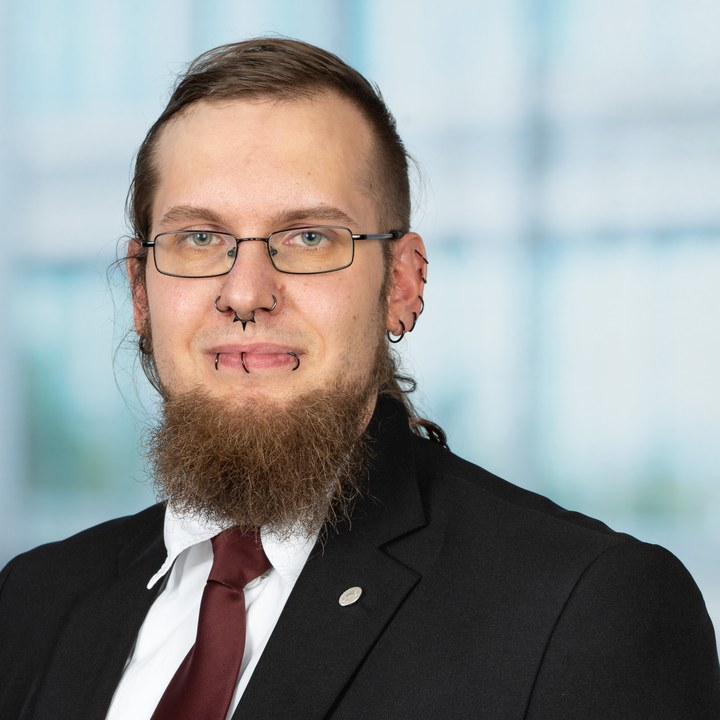
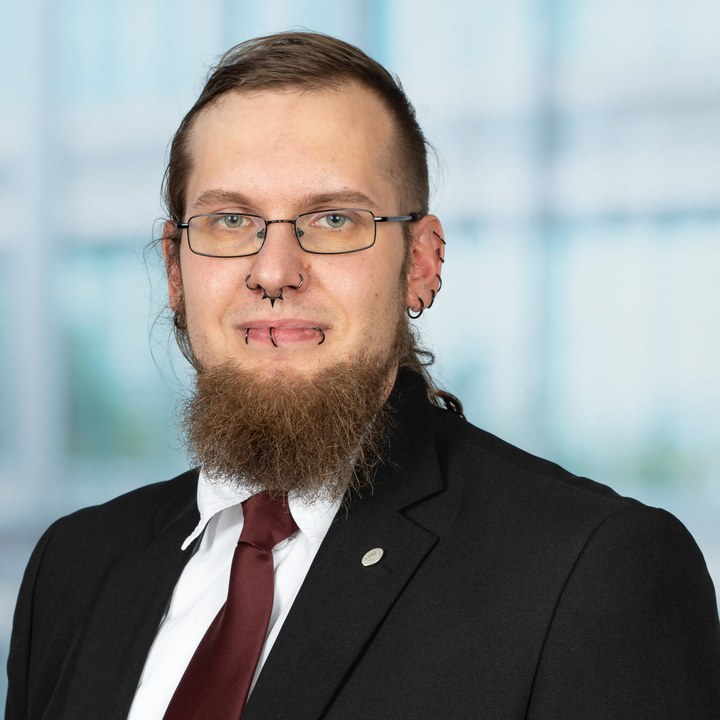
Add scroll progress bar and recenter portrait

diff --git a/index.html b/index.html
@@ -39,6 +39,24 @@
       overflow-x: hidden;
     }
 
+    .scroll-progress {
+      position: fixed;
+      top: 0;
+      left: 0;
+      z-index: 30;
+      width: 100%;
+      height: 4px;
+      background: transparent;
+      pointer-events: none;
+    }
+
+    .scroll-progress-bar {
+      width: 0;
+      height: 100%;
+      background: linear-gradient(90deg, var(--accent), var(--accent-warm));
+      box-shadow: 0 0 12px rgba(127, 202, 213, 0.35);
+    }
+
     a {
       color: var(--text);
       text-decoration-color: var(--accent);
@@ -612,6 +630,10 @@
   </style>
 </head>
 <body>
+  <div class="scroll-progress" aria-hidden="true">
+    <div class="scroll-progress-bar" id="scrollProgress"></div>
+  </div>
+
   <header class="site-header">
     <div class="header-inner">
       <p class="brand">Patrick Kranig</p>
@@ -801,5 +823,18 @@
   <footer>
     <span>Patrick Kranig - Bewerbungsprofil - zuletzt aktualisiert am 25.06.2026</span>
   </footer>
+  <script>
+    const scrollProgress = document.getElementById("scrollProgress");
+
+    function updateScrollProgress() {
+      const scrollableHeight = document.documentElement.scrollHeight - window.innerHeight;
+      const progress = scrollableHeight > 0 ? window.scrollY / scrollableHeight : 0;
+      scrollProgress.style.width = `${Math.min(Math.max(progress, 0), 1) * 100}%`;
+    }
+
+    updateScrollProgress();
+    window.addEventListener("scroll", updateScrollProgress, { passive: true });
+    window.addEventListener("resize", updateScrollProgress);
+  </script>
 </body>
 </html>